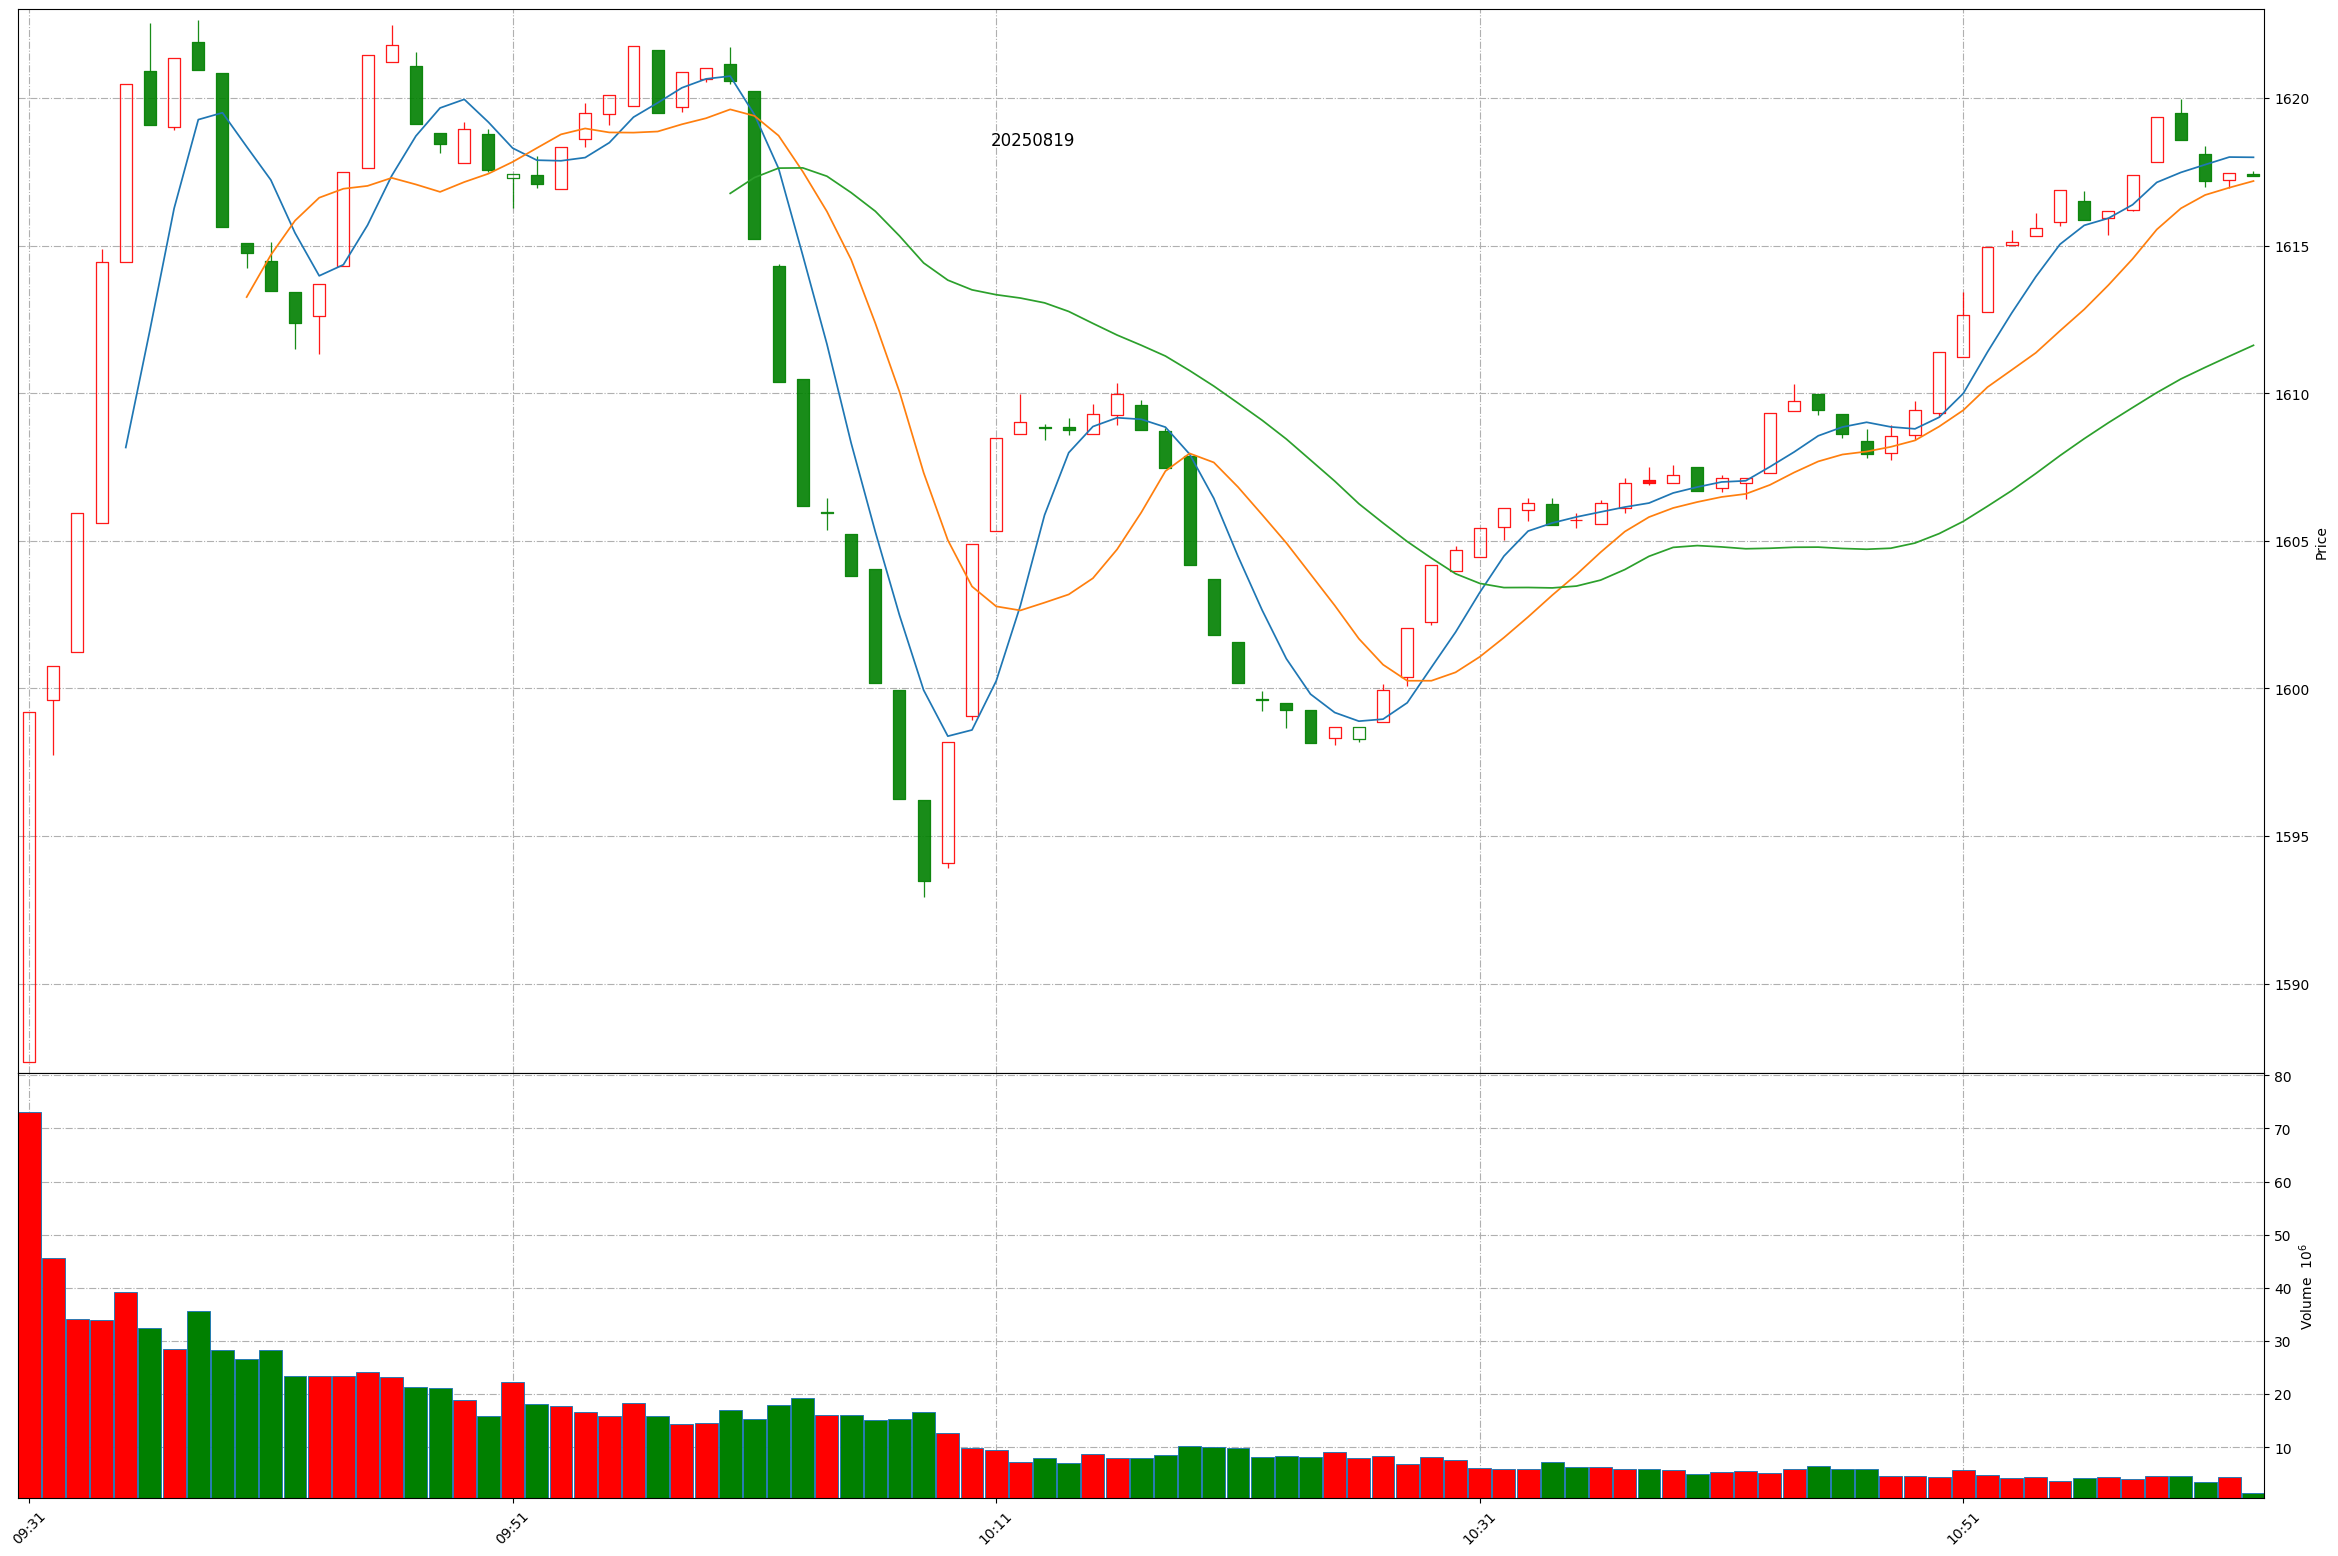
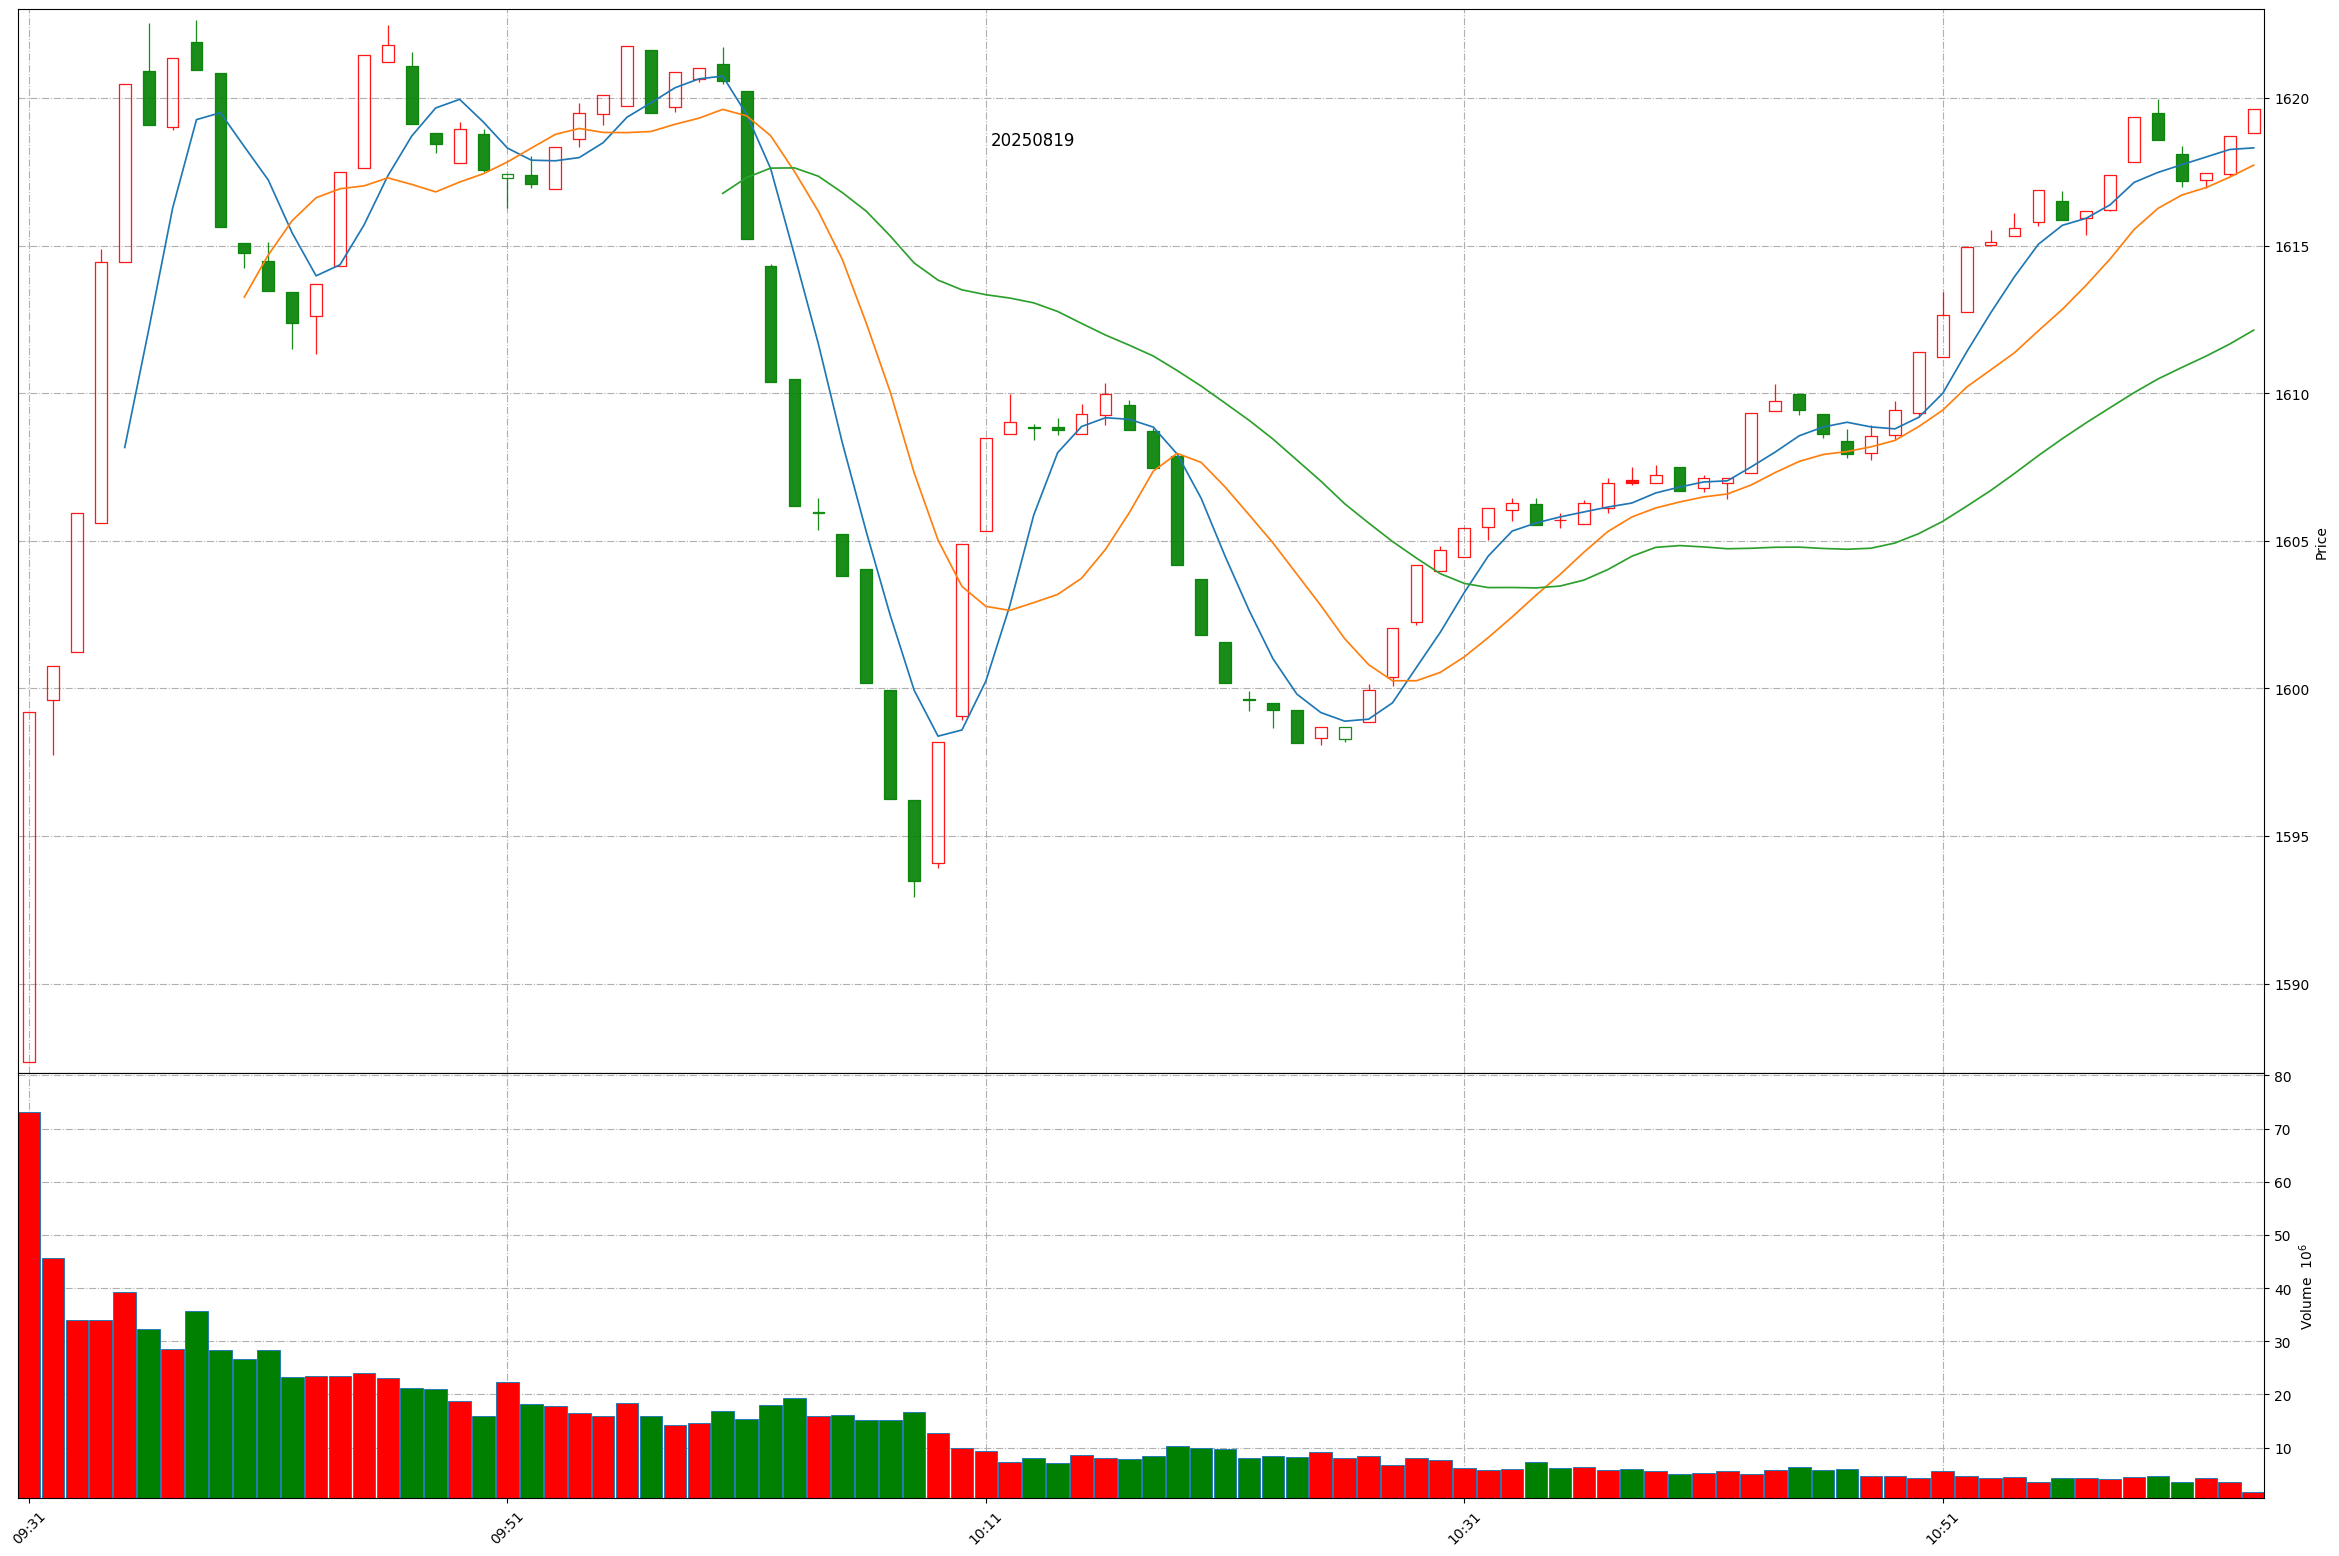
Github action update at 2025-08-19 11:03:39.

diff --git a/README.md b/README.md
@@ -1,11 +1,11 @@
 
 # Daily-A-share-market-quotes 每日 A 股指数（5min 更新）- 20250819
 
-### 上证指数 20250819 11:2
+### 上证指数 20250819 11:3
 ![](./fig/2025/8/20250819-sh000001.png)
 
-### 深证成指 20250819 11:2
+### 深证成指 20250819 11:3
 ![](./fig/2025/8/20250819-sz399001.png)
 
-### 北证50 20250819 11:2
+### 北证50 20250819 11:3
 ![](./fig/2025/8/20250819-bj899050.png)
